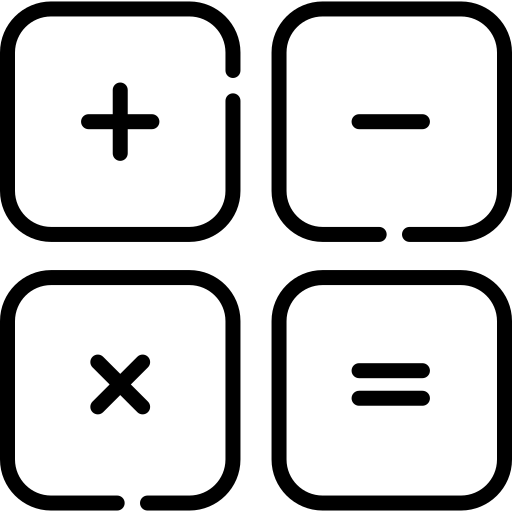
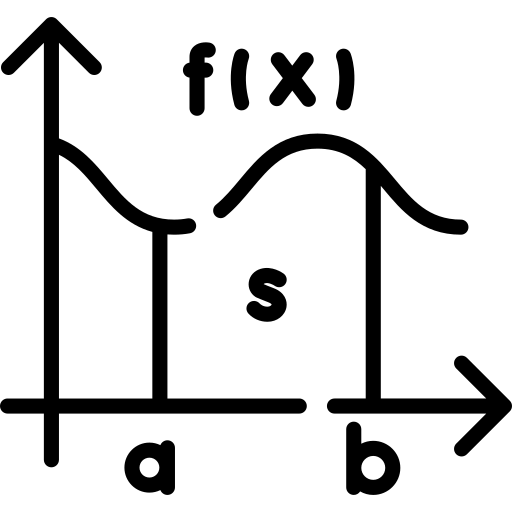
ManyMany Changed

diff --git a/src/main/Main.tsx b/src/main/Main.tsx
@@ -1,58 +1,103 @@
 import React from "react";
 import '@mantine/core/styles.css'
 import classes from './main.module.css'
-import { Button, Flex, Group, Image, SimpleGrid, Stack, Space, Table, Text, Title, UnstyledButton } from "@mantine/core";
+import { useMediaQuery } from '@mantine/hooks';
+import { Button, Flex, Grid, Group, Image, SimpleGrid, Stack, Space, Table, Text, Title, UnstyledButton } from "@mantine/core";
 import MainPageHeader from "./MainPageAppshell";
 import { Link, useNavigate } from 'react-router';
 import { useEffect, useState } from 'react'
 
 const items = [
-  { src: '/img/math.png', alt: 'math' },
-  { src: '/img/physics.png', alt: 'physics' },
-  { src: '/img/chemistry.png', alt: 'chemistry' },
-  { src: '/img/biology.png', alt: 'biology' },
-  { src: '/img/geology.png', alt: 'earth-science' },
-  { src: '/img/coding.png', alt: 'etc' },
+    { src: '/img/math.png', alt: 'math', sub: '수학' },
+    { src: '/img/physics.png', alt: 'physics', sub: '물리' },
+    { src: '/img/chemistry.png', alt: 'chemistry', sub: '화학' },
+    { src: '/img/biology.png', alt: 'biology', sub: '생물' },
+    { src: '/img/geology.png', alt: 'earth-science', sub: '지학' },
+    { src: '/img/coding.png', alt: 'coding', sub: '정보' },
 ];
 
 function Main() {
-  const [toggled, setToggled] = useState(Array(items.length).fill(false));
-    const toggle = (i:Number) =>
-    setToggled((prev) => prev.map((v, idx) => (idx === i ? !v : v)));
+    const [toggled, setToggled] = useState(Array(items.length).fill(false));
+    const toggle = (i: Number) =>
+        setToggled((prev) => prev.map((v, idx) => (idx === i ? !v : v)));
 
-  return (
-    <Flex w="100vw" h="100vh" justify="center" align="center">
-      <Group w="100%" h="100%" gap="xl" justify="center" align="center">
-        <Stack w="40%" h="100%" justify="center" align="center">
-          <Title>SSHS OCW</Title>
-          <Text className={classes.Text1}>
-            SSHS OCW는 서울과학고 학생들이 직접 제작·공유하는 100% 학생 주도형 온라인 강의 플랫폼입니다.<br></br>
-            서울과학고 재학생·졸업생들은 국제올림피아드 다수 수상 경력과 깊이 있는 학습 경험을 바탕으로, 내신 대비부터 고난도 수학·물리 등 심화 학습까지 폭넓은 콘텐츠를 제공합니다.
-          </Text>
-          <Button>둘러보기</Button>
-        </Stack>
-        <Space w="md" />
-        <Flex w="30%" h="100%" justify="center" align="center">
-          <Stack gap="md" align="center" justify="center" >
-            <Text size="xl" className={classes.Title2}>관심 있는 분야가 무엇인가요?</Text>
-            <SimpleGrid verticalSpacing="md" cols={3}>
-              {items.map((item, i) => (
-                <UnstyledButton
-                  onClick={() => toggle(i)}
-                  aria-pressed={toggled[i]}
-                  className={`${classes.selectBox} ${classes.Vertical_align} ${toggled[i] ? classes.selected : ''}`}
-                >
-                  <Image src={item.src} alt={item.alt} w="80%" />
-                </UnstyledButton>
-              ))}
-            </SimpleGrid>
-            <Button>시작하기</Button>
-            <Text className={classes.Text2}>이미 계정이 있으신가요? <Link to="/" className={classes.Li}>로그인 하기</Link></Text>
-          </Stack>
-        </Flex>
-      </Group>
-    </Flex>
-  )
+    const isMobile = useMediaQuery('(max-width: 60em)');
+
+    return (
+        <>
+            {isMobile ? (
+                <>
+                    <Flex w="100vw" h="100vh" justify="center" align="center">
+                        <Stack w="100%" h="100%" gap="xl" justify="center" align="center">
+                            <Stack w="80%" h="100%" justify="center" align="center">
+                                <Title className={classes.Text2}>SSHS OCW</Title>
+                                <Text className={classes.Text1}>
+                                    SSHS OCW는 서울과학고 학생들이 직접 제작·공유하는 100% 학생 주도형 온라인 강의 플랫폼입니다.<br></br>
+                                    서울과학고 재학생·졸업생들은 국제올림피아드 다수 수상 경력과 깊이 있는 학습 경험을 바탕으로, 내신 대비부터 고난도 수학·물리 등 심화 학습까지 폭넓은 콘텐츠를 제공합니다.
+                                </Text>
+                                <Button>둘러보기</Button>
+                            </Stack>
+                            <Space w="md" />
+                            <Flex w="80%" h="100%" justify="center" align="center">
+                                <Stack gap="md" align="center" justify="center" >
+                                    <Text size="xl" className={classes.Title2}>관심 있는 분야가 무엇인가요?</Text>
+                                    <SimpleGrid verticalSpacing="md" cols={3}>
+                                        {items.map((item, i) => (
+                                            <UnstyledButton
+                                                onClick={() => toggle(i)}
+                                                aria-pressed={toggled[i]}
+                                                className={`${classes.selectBox} ${classes.Vertical_align} ${toggled[i] ? classes.selected : ''}`}
+                                            >
+                                                <Image src={item.src} alt={item.alt} className={classes.UndraggableImage} w='80%'/>
+                                                <Text className={classes.ButtonText}>{item.sub}</Text>
+                                            </UnstyledButton>
+                                        ))}
+                                    </SimpleGrid>
+                                    <Button>시작하기</Button>
+                                    <Text className={classes.Text2}>이미 계정이 있으신가요? <Link to="/login" className={classes.Link}>로그인 하러 가기</Link></Text>
+                                </Stack>
+                            </Flex>
+                        </Stack>
+                    </Flex>
+                </>
+            ) : (
+                <>
+                    <Flex w="100vw" h="100vh" justify="center" align="center">
+                        <Group w="100%" h="100%" gap="xl" justify="center" align="center">
+                            <Stack w="40%" h="100%" justify="center" align="center">
+                                <Title className={classes.Title2}>SSHS OCW</Title>
+                                <Text className={`${classes.Text1} `}>
+                                    SSHS OCW는 서울과학고 학생들이 직접 제작·공유하는 100% 학생 주도형 온라인 강의 플랫폼입니다.<br></br>
+                                    서울과학고 재학생·졸업생들은 국제올림피아드 다수 수상 경력과 깊이 있는 학습 경험을 바탕으로, 내신 대비부터 고난도 수학·물리 등 심화 학습까지 폭넓은 콘텐츠를 제공합니다.
+                                </Text>
+                                <Button>둘러보기</Button>
+                            </Stack>
+                            <Space w="md" />
+                            <Flex w="30%" h="100%" justify="center" align="center">
+                                <Stack gap="md" align="center" justify="center" >
+                                    <Text size="xl" className={classes.Title2}>관심 있는 분야가 무엇인가요?</Text>
+                                    <SimpleGrid verticalSpacing="md" cols={3}>
+                                        {items.map((item, i) => (
+                                            <UnstyledButton
+                                                onClick={() => toggle(i)}
+                                                aria-pressed={toggled[i]}
+                                                className={`${classes.selectBox} ${classes.Vertical_align} ${toggled[i] ? classes.selected : ''}`}
+                                            >
+                                                <Image src={item.src} alt={item.alt} className={classes.UndraggableImage} w="80%" />
+                                                <Text className={classes.ButtonText}>{item.sub}</Text>
+                                            </UnstyledButton>
+                                        ))}
+                                    </SimpleGrid>
+                                    <Button>시작하기</Button>
+                                    <Text className={classes.Text2}>이미 계정이 있으신가요? <Link to="/login" className={classes.Link}>로그인 하러 가기</Link></Text>
+                                </Stack>
+                            </Flex>
+                        </Group>
+                    </Flex>
+                </>
+            )}
+        </>
+    )
 }
 
 export default Main;

diff --git a/src/main/main.module.css b/src/main/main.module.css
@@ -5,22 +5,6 @@
     font-style: normal;
 }
 
-.Container1 {
-    display: grid;
-    grid-template-columns: 1fr 1fr;
-    height: 100vh;
-    vertical-align: middle;
-}
-
-.Container2 {
-    display: flex;
-    flex-direction: column;
-    justify-content: center;
-    height: 50vh;
-    width: 30vw;
-    min-height: 200px;
-}
-
 .Vertical_align {
     display: flex;
     align-items: center;
@@ -57,13 +41,23 @@
 }
 
 .selectBox {
-    transition: transform 0.2s ease;
+    position: relative;
+    transition: transform 0.2s ease, background-color 0.5s ease, border-bottom 0.5s ease;
     border: 3px black solid;
     border-bottom: 9px green solid;
     background-color: lightgreen;
     border-radius: 10%;
     width: 100px;
     height: 100px;
+    -webkit-user-drag: none !important;
+    -khtml-user-drag: none !important;
+    -moz-user-drag: none !important;
+    -o-user-drag: none !important;
+}
+
+.selectBox:hover {
+    background-color: rgb(77, 111, 77);
+    border-bottom: 9px rgb(29, 42, 29) solid;
 }
 
 .selected {
@@ -72,6 +66,44 @@
     transform: translateY(2px);
 }
 
+.selected:hover {
+    background-color: rgb(77, 111, 77);
+    border-bottom: 6px rgb(29, 42, 29) solid;
+}
+
 .Title2 {
     font-family: 'JalnanGothic';
+}
+
+.UndraggableImage {
+    -webkit-user-drag: none !important;
+    -khtml-user-drag: none !important;
+    -moz-user-drag: none !important;
+    -o-user-drag: none !important;
+    user-select: none !important;
+    pointer-events: none; /* 클릭까지 막고 싶으면 */
+}
+
+.ButtonText {
+    color: black;
+    position: absolute;
+    top: 50%;
+    left: 50%;
+    font-size: 20px;
+    transform: translate(-50%, -40%);
+    pointer-events: none;
+    z-index: 1;             
+    opacity: 0;             
+    transition: 0.3s ease;
+    font-family: 'JalnanGothic';
+    -webkit-user-select: none; /* 크롬, 사파리 */
+    -moz-user-select: none;    /* 파이어폭스 */
+    -ms-user-select: none;     /* 구버전 IE/Edge */
+    user-select: none; 
+    user-select: none;
+}
+
+.selectBox:hover .ButtonText {
+    opacity: 1;
+    color: white;
 }

diff --git a/src/main/Login.tsx b/src/main/Login.tsx
@@ -1,0 +1,22 @@
+import React from "react"
+import '@mantine/core/styles.css'
+import { Button, Center, Flex, Stack, Text, UnstyledButton } from '@mantine/core'
+import classes from './login.module.css'
+import { Link, useNavigate } from 'react-router';
+import { useEffect, useState } from 'react'
+
+
+function Login() {
+    return (
+        <Flex h='100vh' w='100vw' justify={"center"} align={"center"}>
+            <Stack w='30vw' justify={"center"} align={"center"}>
+                <UnstyledButton className={classes.LoginButton}>구글 계정으로 로그인</UnstyledButton>
+                <UnstyledButton className={classes.LoginButton}>카카오 계정으로 로그인</UnstyledButton>
+                <UnstyledButton className={classes.LoginButton}>네이버 계정으로 로그인</UnstyledButton>
+            </Stack>
+        </Flex>
+    
+    )
+}
+
+export default Login;

diff --git a/src/Router.tsx b/src/Router.tsx
@@ -3,12 +3,13 @@ import { Routes, Route } from "react-router";
 import Main from "./main/Main";
 import Nonexistent from "./nonexistent/Nonexistent";
 import Lecture from "./lecture/Lecture";
+import Login from "./main/Login"
 
 function Router() {
   return (
     <Routes>
       <Route index element = {<Main />} />
-
+      <Route path="login" element={<Login></Login>}></Route> 
       <Route path="info">
         <Route index element={<Lecture />}></Route>
         <Route path=""></Route>

diff --git a/src/main/login.module.css b/src/main/login.module.css
@@ -1,0 +1,16 @@
+@font-face {
+    font-family: 'JalnanGothic';
+    src: url('https://fastly.jsdelivr.net/gh/projectnoonnu/noonfonts_231029@1.1/JalnanGothic.woff') format('woff');
+    font-weight: normal;
+    font-style: normal;
+}
+
+.LoginButton {
+    background-color: rgb(24, 88, 1);
+    width: 100%;
+    height: 50px;
+    border-radius: 5px;
+    color: white;
+    text-align: center;
+    font-family: 'JalnanGothic';
+}
